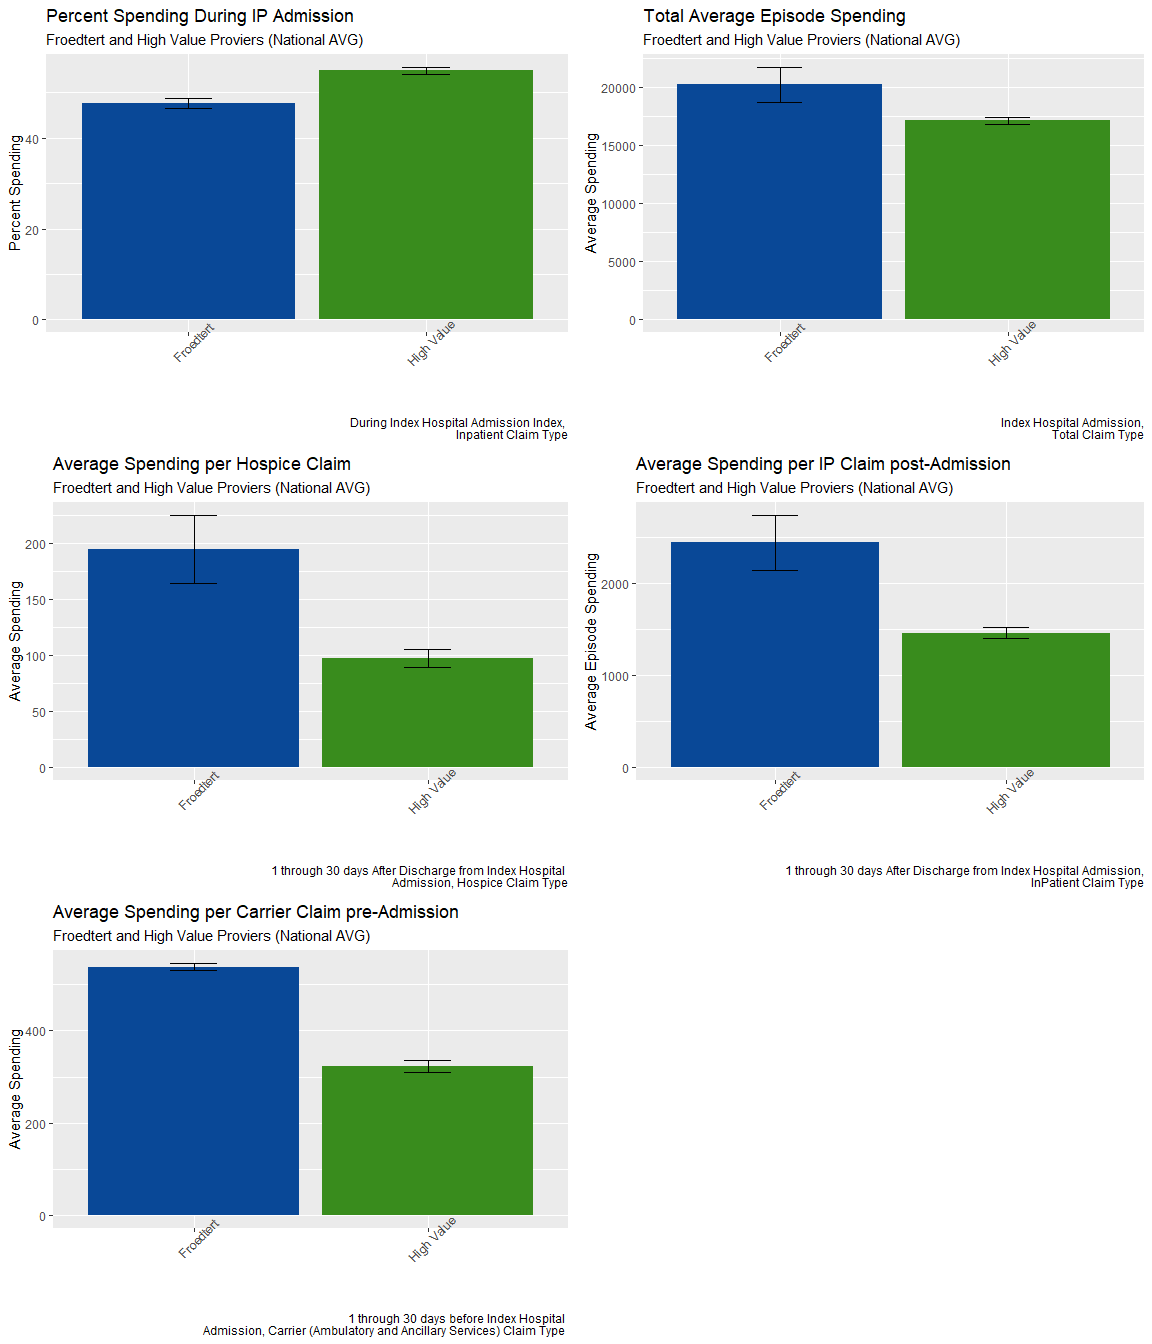
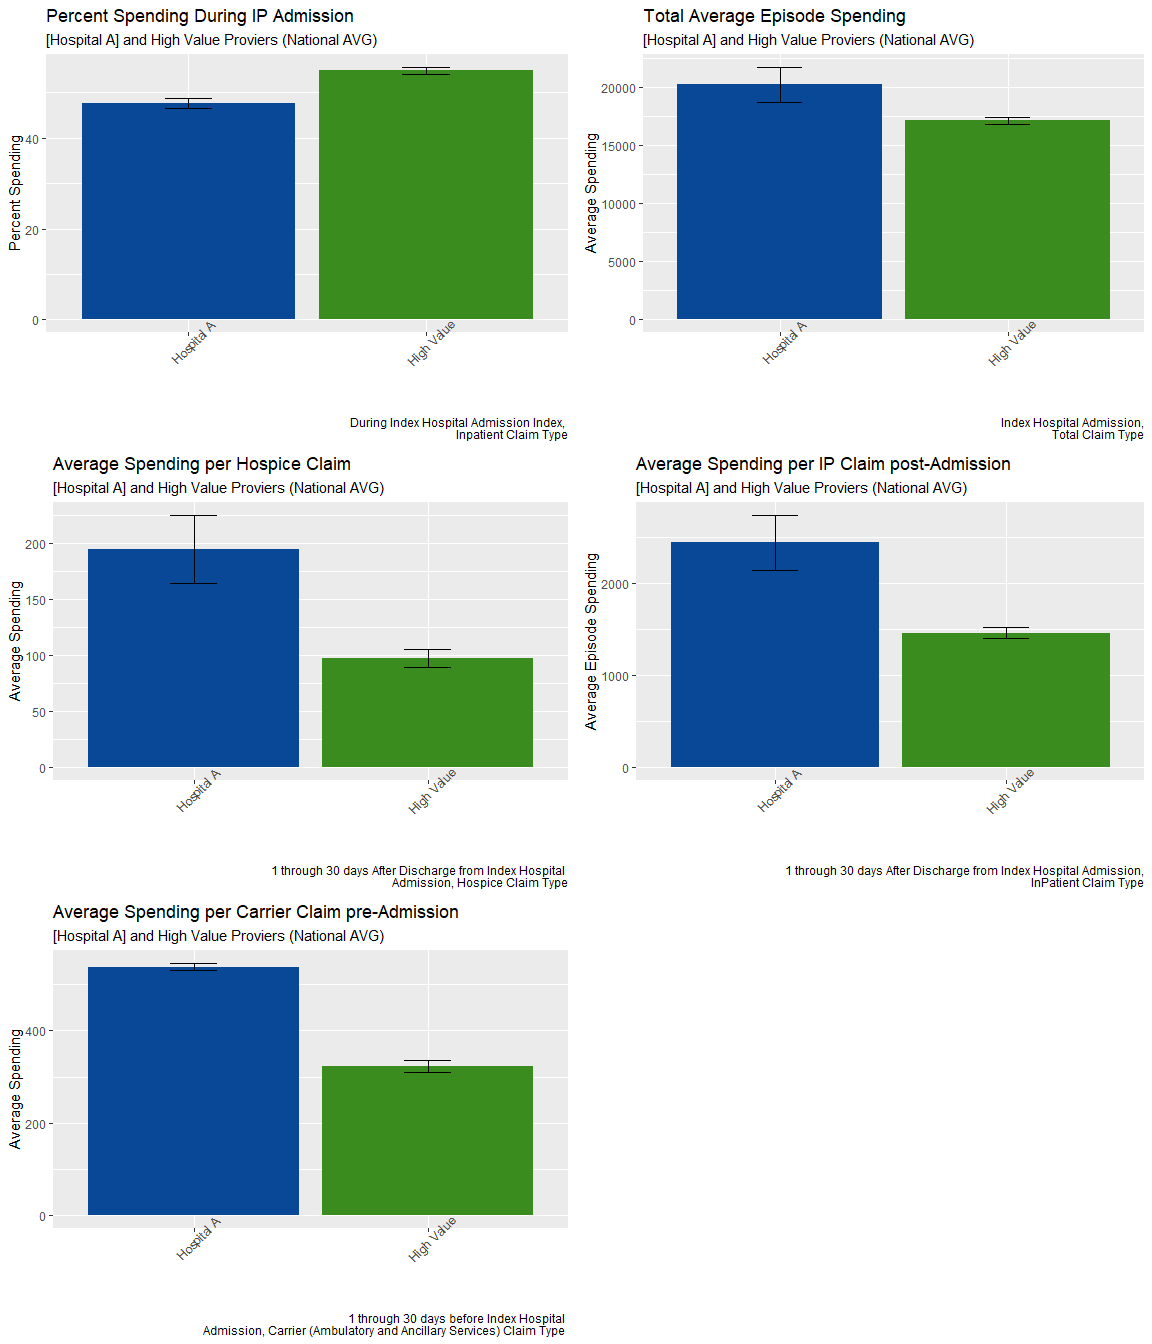
Add files via upload
Remove naming

diff --git a/Patient-Cost-and-High-Value-Healthcare.md b/Patient-Cost-and-High-Value-Healthcare.md
@@ -1,0 +1,209 @@
+---
+title: "Patient Cost and High Value Healthcare"
+author: "Mike"
+date: "2/11/2020"
+output: 
+  html_document:
+    toc: TRUE
+    keep_md: TRUE
+
+
+---
+
+
+
+## Executive Summary
+
+With an increasingly competitive healthcare market, systems will be forced to compete on value. By increasing provider value and lowering cost to the patient (patient burden) Froedtert can maximize its competitiveness in the regional market.
+
+## Case Prompt
+
+*Acutely aware of the challenges outlined above hospital executives and clinical leaders are interested seeing the “Medicare Value Story” – a data-driven narrative about Medicare population trends. The core questions articulated by the executives are detailed below: 
+How does [Hospital system A] compare to other health systems across the country when it comes to Medicare population trends (quality metrics, volume metrics, and cost metrics)? Where is the system doing well and where do we have opportunities to improve? What additional insights can we derive from analyzing the large troves of public Medicare data provided by the Centers for Medicare and Medicaid (CMS)?*
+
+
+
+
+
+
+## Data Wrangling
+
+Once the datasets are loaded, we use the “Medicare Provider Charge Inpatient DRG ALL FY 2016” (DRG Dataset) to calculate the average covered charges, total payments, and Medicare payments. These are also calculated per discharge to find the percent of the total bill paid by CMS. Patient cost burden was determined calculating the difference between the “Average Total Payments” and “Average Medicare Payments” to arrive at the remaining patient balance. 
+
+
+
+Table: Medicare Provider Charge Inpatient data FY2016
+
+DRGDefinition                                                     ProviderId  ProviderName                     ProviderStreetAddress   ProviderCity   ProviderState    ProviderZipCode  HospitalReferralRegion(HRR)Description    TotalDischarges  AverageCoveredCharges   AverageTotalPayments   AverageMedicarePayments   FH   drgID   FHdrgflag   WI        ACC      ATP        AMP   ACCperDischarge   ATPperDischarge   AMPperDischarge  PercentCMSperDischarge 
+---------------------------------------------------------------  -----------  -------------------------------  ----------------------  -------------  --------------  ----------------  ---------------------------------------  ----------------  ----------------------  ---------------------  ------------------------  ---  ------  ----------  ---  --------  -------  ---------  ----------------  ----------------  ----------------  -----------------------
+001 - HEART TRANSPLANT OR IMPLANT OF HEART ASSIST SYSTEM W MCC         10033  UNIVERSITY OF ALABAMA HOSPITAL   619 SOUTH 19TH STREET   BIRMINGHAM     AL                         35233  AL - Birmingham                                        13  $1,016,806.46           $296,937.00            $150,139.69               No   001     No          No    1016806   296937   150139.7          78215.88          22841.31          11549.21  14.77                  
+
+***
+
+
+In order to fairly compare provider value to DRG, the DRG dataset was mapped to their corresponding Major Diagnostic Category (MDC). Similarly the provider dataset (display id AMI/HF/PN/HIP) was mapped to MDC. Only the following DRG/MCD ranges were conserved across both datasets used for further comparison: 
+<br>
+
+
+Designate Payment measure ID with MDC value | (MDC ID xxx DRG Range)
+------------ | -------------
+04	Diseases and Disorders of the Respiratory System |	163 - 208
+05	Diseases and Disorders of the Circulatory System |	215 - 316
+08	Diseases and Disorders of the Musculoskeletal System And Connective Tissue |453 - 566
+
+<br>
+
+In the "Provider Value of Care - Hospital"  (SER Data) dataset, the Medicare "Value of Care Category" is translated into a numerical risk score. This forms the indication of value used throughout the analysis (see script for translation details). High value providers were any who achieved a combined average score of >= 7.
+
+
+
+Table: Provider Value of Care - Hospital
+
+ ProviderID  Hospitalname             Address              City        State    ZIPCode  Countyname   Phonenumber      Paymentmeasurename                  PaymentmeasureID   Paymentcategory             Denominator     Payment         Lowerestimate   Higherestimate   Paymentfootnote                                          Valueofcaredisplayname               ValueofcaredisplayID   Valueofcarecategory   Valueofcarefootnote                                      Measurestartdate   Measureenddate 
+-----------  -----------------------  -------------------  ----------  ------  --------  -----------  ---------------  ----------------------------------  -----------------  --------------------------  --------------  --------------  --------------  ---------------  -------------------------------------------------------  -----------------------------------  ---------------------  --------------------  -------------------------------------------------------  -----------------  ---------------
+     190164  BYRD REGIONAL HOSPITAL   1020 FERTITTA BLVD   LEESVILLE   LA         71446  VERNON       (337) 239-9041   Payment for heart attack patients   PAYM_30_AMI        Number of Cases Too Small   Not Available   Not Available   Not Available   Not Available    1 - The number of cases/patients is too few to report.   Value of Care Heart Attack measure   MORT_PAYM_30_AMI       Not Available         1 - The number of cases/patients is too few to report.   7/1/2014           6/30/2017      
+
+***
+
+
+
+
+
+
+
+The Medicare spending by claim (HSP) dataset is transformed to match payment episode period and claim type back to the Medicare Hospital Spending (DRG) dataset above. 
+
+
+
+Table: Medicare Spending by Claim
+
+HOSPITAL_NAME                       PROVIDER_ID  STATE   PERIOD                                          CLAIM_TYPE            AVG_SPNDG_PER_EP_HOSPITAL   AVG_SPNDG_PER_EP_STATE   AVG_SPNDG_PER_EP_NATIONAL  PERCENT_OF_SPNDG_HOSPITAL   PERCENT_OF_SPNDG_STATE   PERCENT_OF_SPNDG_NATIONAL    START_DATE   END_DATE
+---------------------------------  ------------  ------  ----------------------------------------------  -------------------  --------------------------  -----------------------  --------------------------  --------------------------  -----------------------  --------------------------  -----------  ---------
+SOUTHEAST ALABAMA MEDICAL CENTER          10001  AL      1 to 3 days Prior to Index Hospital Admission   Home Health Agency                           21                       15                          13  0.10%                       0.08%                    0.06%                           1012017   12312017
+
+***
+
+
+
+
+
+
+
+
+
+
+
+
+
+
+
+
+
+
+
+
+
+<br>
+<br>
+
+Overview of difference in patient burden between [Hospital A] and "High Value" healthcare providers. This shows that per DRG (top), overall (lower left), and per MDC (lower right) high value providers have lower patient cost burden. [Hospital A] has 188 DRG's represented in the dataset, of those 91% (172 of 188) have opportunity for value improvement. With total payments at $121.2 million, opportunity for value improvement is just over 21 million.
+
+
+<br>
+
+![](Patient-Cost-and-High-Value-Healthcare_files/figure-html/unnamed-chunk-13-1.png)<!-- -->![](Patient-Cost-and-High-Value-Healthcare_files/figure-html/unnamed-chunk-13-2.png)<!-- -->
+
+<br>
+<br>
+
+To determine the most important episode spending characteristics of high value providers, various machine learning models were employed. Data was preprocessed to remove near zero variance, and highly correlated (cutoff = 0.75) predictors, then normalized (centered and scaled) for increased regression performance. Data was randomly sampled into 70/30 training/testing subsets. All models (not XGBoost) were trained using the train function of the caret package with repeated 10-fold cross validation for accuracy in model evaluation.  <br>
+
+## Model Comparison 
+
+General Linear Model (GLM), Linear Discriminant Analysis (LDA), Recursive Partitioning and Regression Trees (RPART), k-nearest neighbors (KNN), Support Vector Machines (SVM), Random Forest (RF) were all evaluated for highest accuracy. (XGBoost was performed seperately using the XGBoost package and is not shown here).
+
+![](Patient-Cost-and-High-Value-Healthcare_files/figure-html/unnamed-chunk-14-1.png)<!-- -->
+
+
+
+
+
+
+
+<br>
+
+## Feature Importance (XGBoost)
+
+XGBoost hyperparameter tuning was perfored using the caret implementation. However, this implementation is not as performant as the native XGBoost package, which was used for the final model using the parameters below:
+
+
+```
+##     nrounds max_depth eta gamma colsample_bytree min_child_weight subsample
+## 113      50        10 0.1     0                1                3         1
+```
+
+The resulting top 10 features, in order of relative importance are shown below:
+
+![](Patient-Cost-and-High-Value-Healthcare_files/figure-html/unnamed-chunk-17-1.png)<!-- -->
+
+## XGBoost Model Performance
+
+XGBoost attained the highest accuracy of the models tested at 94.8%, with good sensitivity / recall (true positive rate), F1-score of 97.26% and statistical significance (P-value < 0.05%). Low specificity is not overly concerning in this application.
+
+
+```
+## Confusion Matrix and Statistics
+## 
+##           Reference
+## Prediction   0   1
+##          0 844  38
+##          1  13  13
+##                                           
+##                Accuracy : 0.9438          
+##                  95% CI : (0.9268, 0.9579)
+##     No Information Rate : 0.9438          
+##     P-Value [Acc > NIR] : 0.5371645       
+##                                           
+##                   Kappa : 0.3115          
+##                                           
+##  Mcnemar's Test P-Value : 0.0007775       
+##                                           
+##             Sensitivity : 0.9848          
+##             Specificity : 0.2549          
+##          Pos Pred Value : 0.9569          
+##          Neg Pred Value : 0.5000          
+##              Prevalence : 0.9438          
+##          Detection Rate : 0.9295          
+##    Detection Prevalence : 0.9714          
+##       Balanced Accuracy : 0.6199          
+##                                           
+##        'Positive' Class : 0               
+## 
+```
+
+
+
+
+
+Focusing in on the top 5 features (for brevity), Violin plots show the distribution of episode spending between high-value, and non-high value providers (FH spending shown in blue). 
+
+![](Patient-Cost-and-High-Value-Healthcare_files/figure-html/unnamed-chunk-20-1.png)<!-- -->
+
+
+
+
+## High Value Comparison
+
+Comparing [Hospital A] rates to those of High-value providers only we more clearly see the areas of opportunity for reducing patient cost burden. For example, high-value providers spend more during the inpatient admission but less in total average episode spending. Additionally, [Hospital A] should more closely evaluate ways to reduce average spending in post acute care (Inpatient post-admission and hospice claims) in addition to reducing ambulatory and ancillary services prior to admission (carrier claim pre-admission).
+
+![](Patient-Cost-and-High-Value-Healthcare_files/figure-html/unnamed-chunk-22-1.png)<!-- -->
+
+
+## Data
+
+Datasets can be found below: <br>
+DRG Data: https://data.cms.gov/inpatient-provider-lookup/view-data <br>
+HSP Data: https://data.medicare.gov/Hospital-Compare/Medicare-Hospital-Spending-by-Claim/nrth-mfg3 <br>
+Provider (SER): https://data.medicare.gov/Hospital-Compare/Payment-and-value-of-care-Hospital/c7us-v4mf <br>
+Zip: https://public.opendatasoft.com/explore/dataset/us-zip-code-latitude-and-longitude/export/ <br>
+*Note: The CSV's provided reflect modified headers (spaces removed) not included in the script here.* <br>
